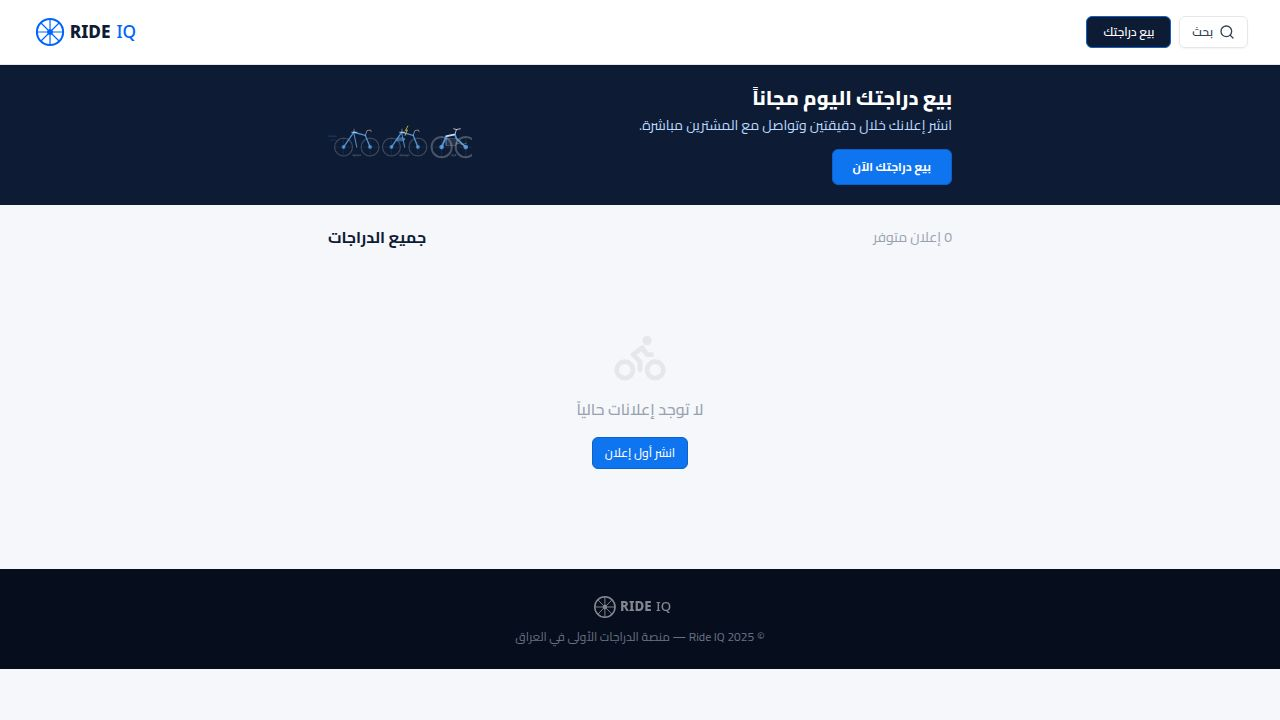
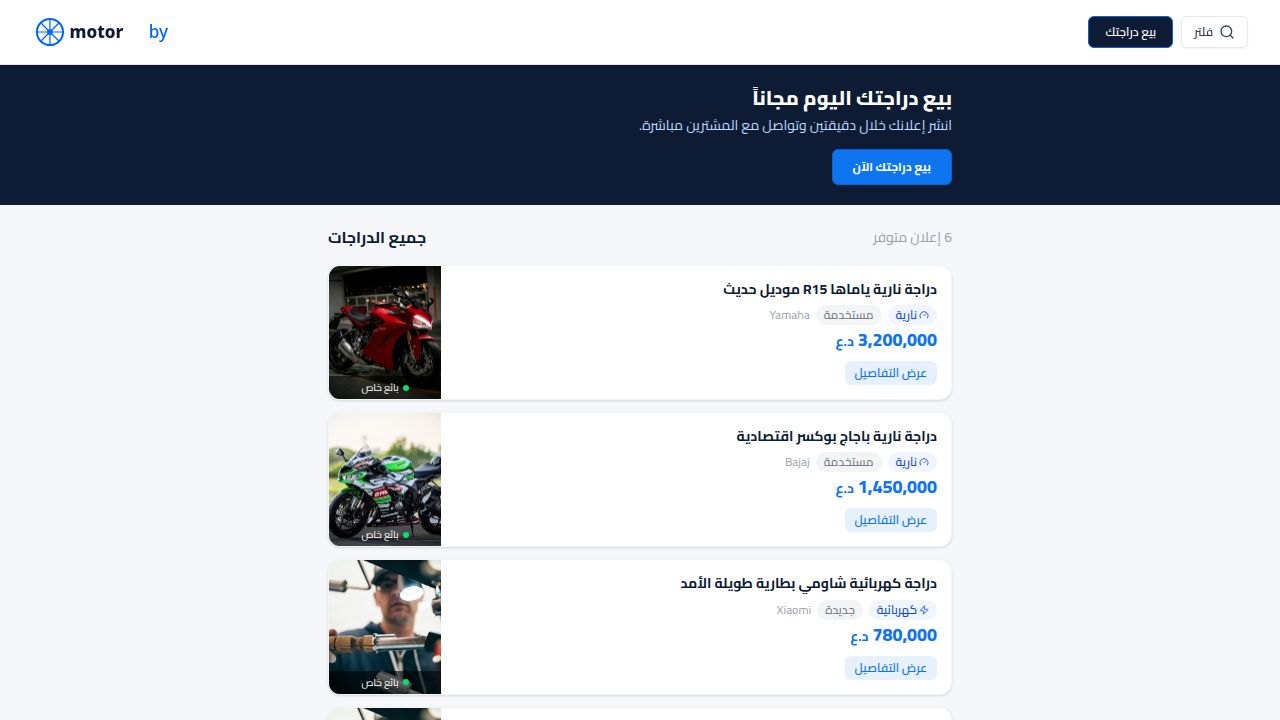
Add a way to specify if motorcycles have official documents
Adds a 'hasDocuments' field to motorcycle listings and updates the website's name to 'motorby', changing the search button to 'filter'.

Replit-Commit-Author: Agent
Replit-Commit-Session-Id: a086afb3-acc5-41c4-a1ab-1242f09f702b
Replit-Commit-Checkpoint-Type: full_checkpoint
Replit-Commit-Event-Id: 8f7b4b8e-b1e0-4392-a317-b1c3d7ee8beb
Replit-Commit-Screenshot-Url: https://storage.googleapis.com/screenshot-production-us-central1/c0543eb9-1dfb-4f9b-b4d2-831bb9f5f4e4/a086afb3-acc5-41c4-a1ab-1242f09f702b/W4W8Hmf
Replit-Helium-Checkpoint-Created: true

diff --git a/artifacts/bike-market/src/pages/sell.tsx b/artifacts/bike-market/src/pages/sell.tsx
@@ -52,6 +52,7 @@ export default function SellPage() {
     engineCapacity: "",
     province: "",
     hasDelivery: false,
+    hasDocuments: false,
     phone: "",
   });
 
@@ -103,6 +104,7 @@ export default function SellPage() {
           hasDelivery: form.hasDelivery,
           ...(mainType === "motorcycle" && form.mileage ? { mileage: parseInt(form.mileage) } : {}),
           ...(mainType === "motorcycle" && form.engineCapacity ? { engineCapacity: parseInt(form.engineCapacity) } : {}),
+          ...(mainType === "motorcycle" ? { hasDocuments: form.hasDocuments } : {}),
         },
       },
       {
@@ -269,37 +271,64 @@ export default function SellPage() {
             </div>
 
             {mainType === "motorcycle" && (
-              <div className="grid grid-cols-2 gap-4">
-                <div className="space-y-1.5">
-                  <Label htmlFor="mileage">الممشى (كم)</Label>
-                  <div className="relative">
-                    <Gauge className="absolute right-3 top-1/2 -translate-y-1/2 w-4 h-4 text-muted-foreground" />
-                    <Input
-                      id="mileage"
-                      type="number"
-                      className="pr-9"
-                      value={form.mileage}
-                      onChange={(e) => setForm({ ...form, mileage: e.target.value })}
-                      min="0"
-                    />
+              <>
+                <div className="grid grid-cols-2 gap-4">
+                  <div className="space-y-1.5">
+                    <Label htmlFor="mileage">الممشى (كم)</Label>
+                    <div className="relative">
+                      <Gauge className="absolute right-3 top-1/2 -translate-y-1/2 w-4 h-4 text-muted-foreground" />
+                      <Input
+                        id="mileage"
+                        type="number"
+                        className="pr-9"
+                        value={form.mileage}
+                        onChange={(e) => setForm({ ...form, mileage: e.target.value })}
+                        min="0"
+                      />
+                    </div>
+                  </div>
+
+                  <div className="space-y-1.5">
+                    <Label htmlFor="engineCapacity">سعة المحرك (سي سي)</Label>
+                    <div className="relative">
+                      <Cog className="absolute right-3 top-1/2 -translate-y-1/2 w-4 h-4 text-muted-foreground" />
+                      <Input
+                        id="engineCapacity"
+                        type="number"
+                        className="pr-9"
+                        value={form.engineCapacity}
+                        onChange={(e) => setForm({ ...form, engineCapacity: e.target.value })}
+                        min="0"
+                      />
+                    </div>
                   </div>
                 </div>
 
                 <div className="space-y-1.5">
-                  <Label htmlFor="engineCapacity">سعة المحرك (سي سي)</Label>
-                  <div className="relative">
-                    <Cog className="absolute right-3 top-1/2 -translate-y-1/2 w-4 h-4 text-muted-foreground" />
-                    <Input
-                      id="engineCapacity"
-                      type="number"
-                      className="pr-9"
-                      value={form.engineCapacity}
-                      onChange={(e) => setForm({ ...form, engineCapacity: e.target.value })}
-                      min="0"
-                    />
+                  <Label>الأوراق الرسمية <span className="text-red-500">*</span></Label>
+                  <div className="flex gap-2">
+                    {[
+                      { value: true, label: "مع أوراق رسمية" },
+                      { value: false, label: "بدون أوراق" },
+                    ].map((d) => (
+                      <button
+                        type="button"
+                        key={String(d.value)}
+                        onClick={() => setForm({ ...form, hasDocuments: d.value })}
+                        className={cn(
+                          "flex-1 py-2.5 rounded-xl border-2 text-sm font-semibold transition-all flex items-center justify-center gap-1.5",
+                          form.hasDocuments === d.value
+                            ? "border-primary bg-primary text-white"
+                            : "border-gray-200 text-gray-600 hover:border-primary/50 hover:text-primary"
+                        )}
+                      >
+                        <FileText className="w-4 h-4" />
+                        {d.label}
+                      </button>
+                    ))}
                   </div>
                 </div>
-              </div>
+              </>
             )}
 
             <div className="space-y-1.5">

diff --git a/artifacts/bike-market/src/pages/bike-detail.tsx b/artifacts/bike-market/src/pages/bike-detail.tsx
@@ -263,6 +263,15 @@ export default function BikeDetailPage() {
                     {Number(bike.mileage).toLocaleString()} كم
                   </span>
                 )}
+                {bike.category === "motorcycle" && (
+                  <span className={cn(
+                    "flex items-center gap-1.5 text-sm px-3 py-1.5 rounded-lg font-medium",
+                    bike.hasDocuments ? "bg-green-50 text-green-700" : "bg-red-50 text-red-600"
+                  )}>
+                    <Tag className="w-4 h-4" />
+                    {bike.hasDocuments ? "مع أوراق رسمية" : "بدون أوراق"}
+                  </span>
+                )}
               </div>
 
               {bike.description && (

diff --git a/artifacts/api-server/src/routes/bikes.ts b/artifacts/api-server/src/routes/bikes.ts
@@ -102,7 +102,7 @@ router.post("/bikes", requireAuth, async (req: any, res: any) => {
 
     await upsertUser(userId, userName, userEmail);
 
-    const { title, description, price, category, condition, brand, phone, images, mileage, engineCapacity, province, hasDelivery } = req.body;
+    const { title, description, price, category, condition, brand, phone, images, mileage, engineCapacity, province, hasDelivery, hasDocuments } = req.body;
     if (!title || !price || !category || !condition || !phone || !province) {
       return res.status(400).json({ error: "Missing required fields" });
     }
@@ -122,6 +122,7 @@ router.post("/bikes", requireAuth, async (req: any, res: any) => {
         engineCapacity: engineCapacity !== undefined && engineCapacity !== null ? parseInt(engineCapacity) : undefined,
         province,
         hasDelivery: !!hasDelivery,
+        hasDocuments: !!hasDocuments,
         status: "active",
         userId,
         userName,
@@ -224,7 +225,7 @@ router.put("/bikes/:id", requireAuth, async (req: any, res: any) => {
     if (!existing) return res.status(404).json({ error: "Not found" });
     if (existing.userId !== userId) return res.status(403).json({ error: "Forbidden" });
 
-    const { title, description, price, category, condition, brand, phone, images, mileage, engineCapacity, province, hasDelivery } = req.body;
+    const { title, description, price, category, condition, brand, phone, images, mileage, engineCapacity, province, hasDelivery, hasDocuments } = req.body;
     const [updated] = await db
       .update(bikesTable)
       .set({
@@ -240,6 +241,7 @@ router.put("/bikes/:id", requireAuth, async (req: any, res: any) => {
         ...(engineCapacity !== undefined && { engineCapacity: engineCapacity !== null ? parseInt(engineCapacity) : null }),
         ...(province !== undefined && { province }),
         ...(hasDelivery !== undefined && { hasDelivery: !!hasDelivery }),
+        ...(hasDocuments !== undefined && { hasDocuments: !!hasDocuments }),
         updatedAt: new Date(),
       })
       .where(eq(bikesTable.id, id))

diff --git a/artifacts/bike-market/src/components/navbar.tsx b/artifacts/bike-market/src/components/navbar.tsx
@@ -23,7 +23,7 @@ export default function Navbar() {
                 onClick={() => setFilterOpen(true)}
               >
                 <Search className="w-4 h-4" />
-                بحث
+                فلتر
               </Button>
 
               {/* Add listing button */}
@@ -36,7 +36,7 @@ export default function Navbar() {
 
             {/* Right side — logo */}
             <Link href="/" className="flex items-center flex-shrink-0">
-              <img src="/logo.svg" alt="Ride IQ" className="h-9 w-auto" />
+              <img src="/logo.svg" alt="motorby" className="h-9 w-auto" />
             </Link>
           </div>
         </div>

diff --git a/artifacts/bike-market/src/pages/home.tsx b/artifacts/bike-market/src/pages/home.tsx
@@ -74,9 +74,9 @@ export default function HomePage() {
       <footer className="bg-[#060e1e] text-gray-500 py-6 mt-4">
         <div className="max-w-2xl mx-auto px-4 text-center">
           <div className="flex items-center justify-center mb-2">
-            <img src="/logo.svg" alt="Ride IQ" className="h-7 w-auto brightness-0 invert opacity-50" />
+            <img src="/logo.svg" alt="motorby" className="h-7 w-auto brightness-0 invert opacity-50" />
           </div>
-          <p className="text-xs">© 2025 Ride IQ — منصة الدراجات الأولى في العراق</p>
+          <p className="text-xs">© 2025 motorby — منصة الدراجات الأولى في العراق</p>
         </div>
       </footer>
     </div>

diff --git a/artifacts/bike-market/index.html b/artifacts/bike-market/index.html
@@ -3,7 +3,7 @@
   <head>
     <meta charset="UTF-8" />
     <meta name="viewport" content="width=device-width, initial-scale=1.0, maximum-scale=1" />
-    <title>Ride iQ — سوق الدراجات</title>
+    <title>motorby — سوق الدراجات</title>
     <link rel="icon" type="image/svg+xml" href="/favicon.svg" />
     <link rel="preconnect" href="https://fonts.googleapis.com">
     <link rel="preconnect" href="https://fonts.gstatic.com" crossorigin>

diff --git a/lib/db/src/schema/bikes.ts b/lib/db/src/schema/bikes.ts
@@ -16,6 +16,7 @@ export const bikesTable = pgTable("bikes", {
   engineCapacity: integer("engine_capacity"),
   province: text("province"),
   hasDelivery: boolean("has_delivery").notNull().default(false),
+  hasDocuments: boolean("has_documents").notNull().default(false),
   status: text("status").notNull().default("active"),
   userId: text("user_id").notNull(),
   userName: text("user_name"),